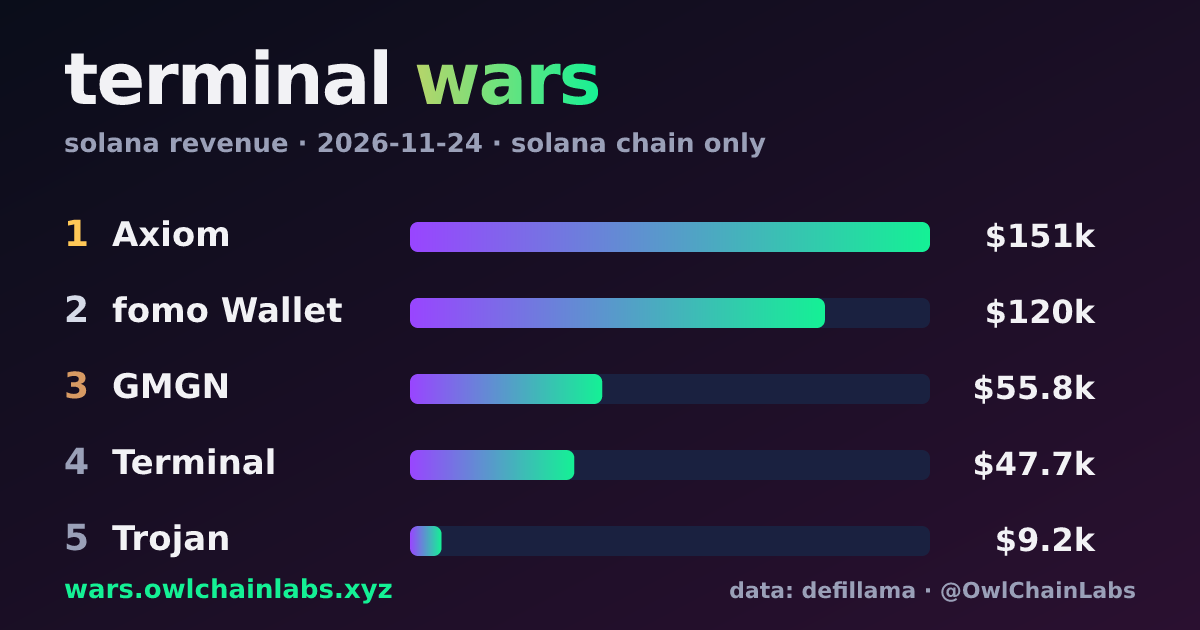
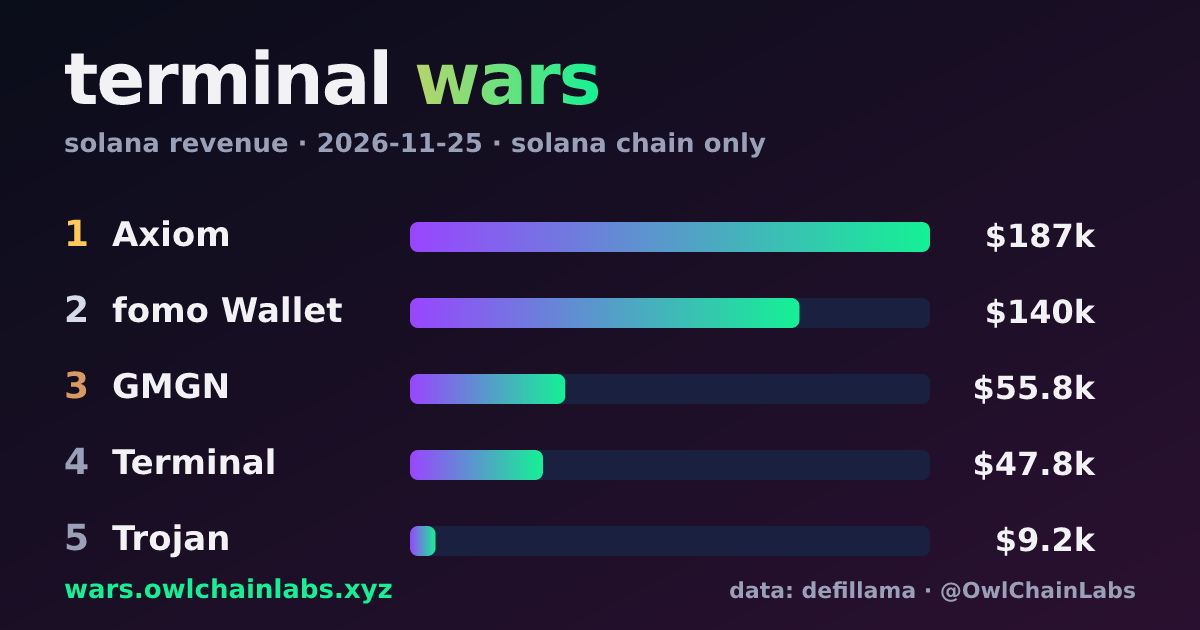
data: 2026-11-26

diff --git a/public/index.html b/public/index.html
@@ -9,8 +9,8 @@
   <meta property="og:title" content="terminal wars">
   <meta property="og:description" content="which solana trading terminal makes the most from you? daily leaderboard.">
   <meta property="og:url" content="https://wars.owlchainlabs.xyz">
-  <meta property="og:image" content="https://wars.owlchainlabs.xyz/og.png?v=2026-11-24">
-  <meta name="twitter:image" content="https://wars.owlchainlabs.xyz/og.png?v=2026-11-24">
+  <meta property="og:image" content="https://wars.owlchainlabs.xyz/og.png?v=2026-11-25">
+  <meta name="twitter:image" content="https://wars.owlchainlabs.xyz/og.png?v=2026-11-25">
   <meta name="twitter:card" content="summary_large_image">
   <meta name="twitter:site" content="@OwlChainLabs">
   <style>
